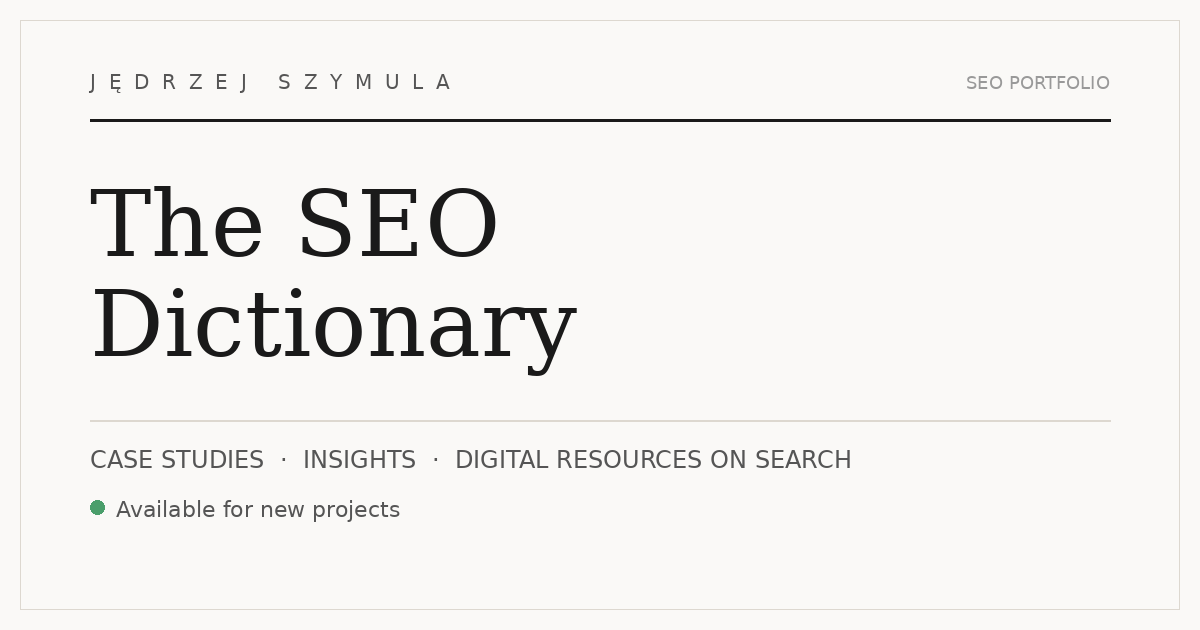
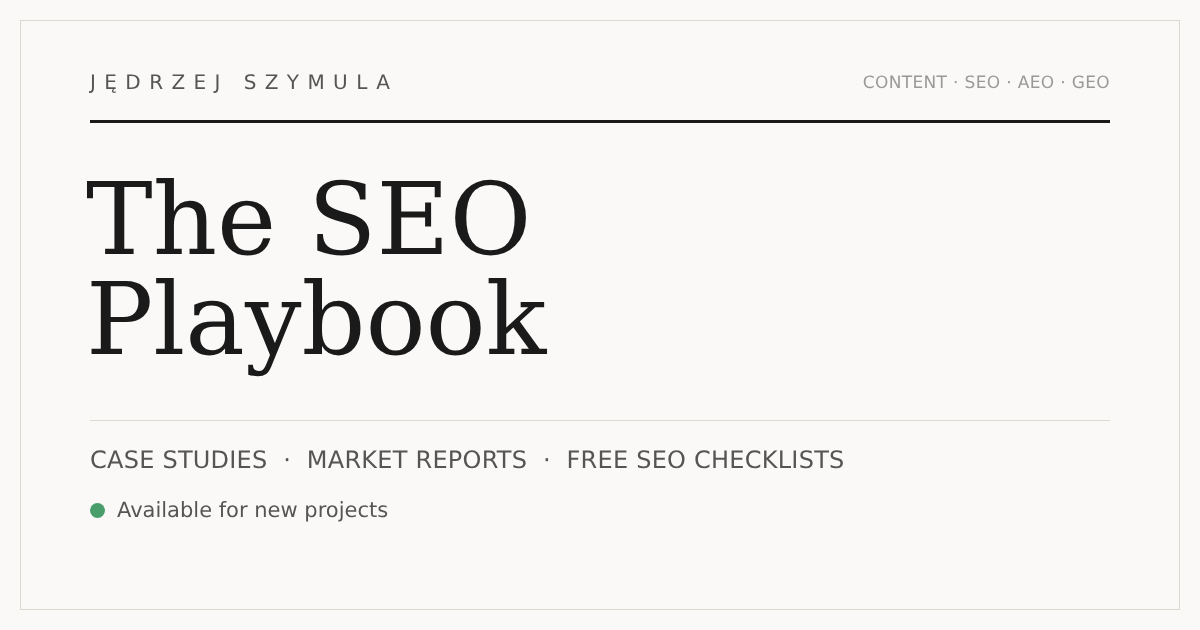
Rename to The SEO Playbook; solid background for city labels
- Masthead, OG title, OG image, README and package name.
- City labels on the globe sit on a solid paper box.
- Always revalidate /public scripts so a deploy never mixes old JS with new CSS.

Claude-Session: https://claude.ai/code/session_01VKqqrXFLfNE7WR1PCa9msm

diff --git a/src/styles/global.css b/src/styles/global.css
@@ -1,5 +1,5 @@
 /* ==========================================================================
-   The SEO Dictionary — shared stylesheet
+   The SEO Playbook — shared stylesheet
    Imported once in src/layouts/Base.astro, so every page gets it.
    No inline style="" attributes in pages: add a class here instead.
    ========================================================================== */
@@ -260,8 +260,9 @@ footer a:hover{color:var(--ink)}
 .globe-places{position:absolute;top:0;left:0;width:100%;height:100vh;height:100svh;z-index:1;pointer-events:none;overflow:hidden}
 .gplace{position:absolute;left:0;top:0;will-change:transform}
 .gplace-dot{position:absolute;left:-3.5px;top:-3.5px;width:7px;height:7px;border-radius:50%;background:var(--ink)}
-.gplace-name{position:absolute;left:9px;top:-26px;font-family:var(--font-sans);font-size:.62rem;font-weight:600;letter-spacing:.06em;
-  color:var(--ink);background:var(--paper);padding:.1rem .35rem;border-radius:1px;white-space:nowrap;line-height:1.5}
+.gplace-name{position:absolute;left:9px;top:-27px;display:block;font-family:var(--font-sans);font-size:.62rem;font-weight:600;letter-spacing:.06em;
+  color:var(--ink);background-color:var(--paper);padding:.15rem .4rem;border-radius:2px;white-space:nowrap;line-height:1.5;
+  box-shadow:0 0 0 2px var(--paper);opacity:1}   /* solid box: no globe dots through the letters */
 .gplace.is-left .gplace-name{left:auto;right:9px}
 /* Glitchy pop-up tags on the globe (index) */
 .globe-tags{position:absolute;top:0;left:0;width:100%;height:100vh;height:100svh;z-index:2;pointer-events:none;overflow:hidden;

diff --git a/public/site.js b/public/site.js
@@ -1,4 +1,4 @@
-// Shared behaviour across all pages of The SEO Dictionary
+// Shared behaviour across all pages of The SEO Playbook
 
 // Keep footer copyright year current automatically.
 document.querySelectorAll('#cur-year').forEach(function (el) {

diff --git a/CHANGELOG.md b/CHANGELOG.md
@@ -8,6 +8,15 @@ Running history of changes made to this site, kept so future sessions have conte
 
 
 
+
+## 2026-11-12 — "The SEO Playbook"
+
+- Site name changed from "The SEO Dictionary" to "The SEO Playbook": masthead on every page, OG title,
+  new `public/og-image.png`, README, package name.
+- City labels on the globe: solid paper box with a little more padding, so no globe dots show through letters.
+- `_headers`: scripts in `/public` (`globe.js`, `site.js`) are always revalidated, so visitors never get
+  an old script with new CSS after a deploy.
+
 ## 2026-11-12 — Globe: static cities, pulsing topic tags
 
 - City markers are static dots; the name sits on a paper-coloured label at full opacity, in its own

diff --git a/README.md b/README.md
@@ -1,4 +1,4 @@
-# The SEO Dictionary — Jędrzej Szymula
+# The SEO Playbook — Jędrzej Szymula
 
 Personal portfolio: case studies, knowledge entries and (soon) digital products.
 Built with [Astro](https://astro.build) and hosted for free on Cloudflare Pages.
